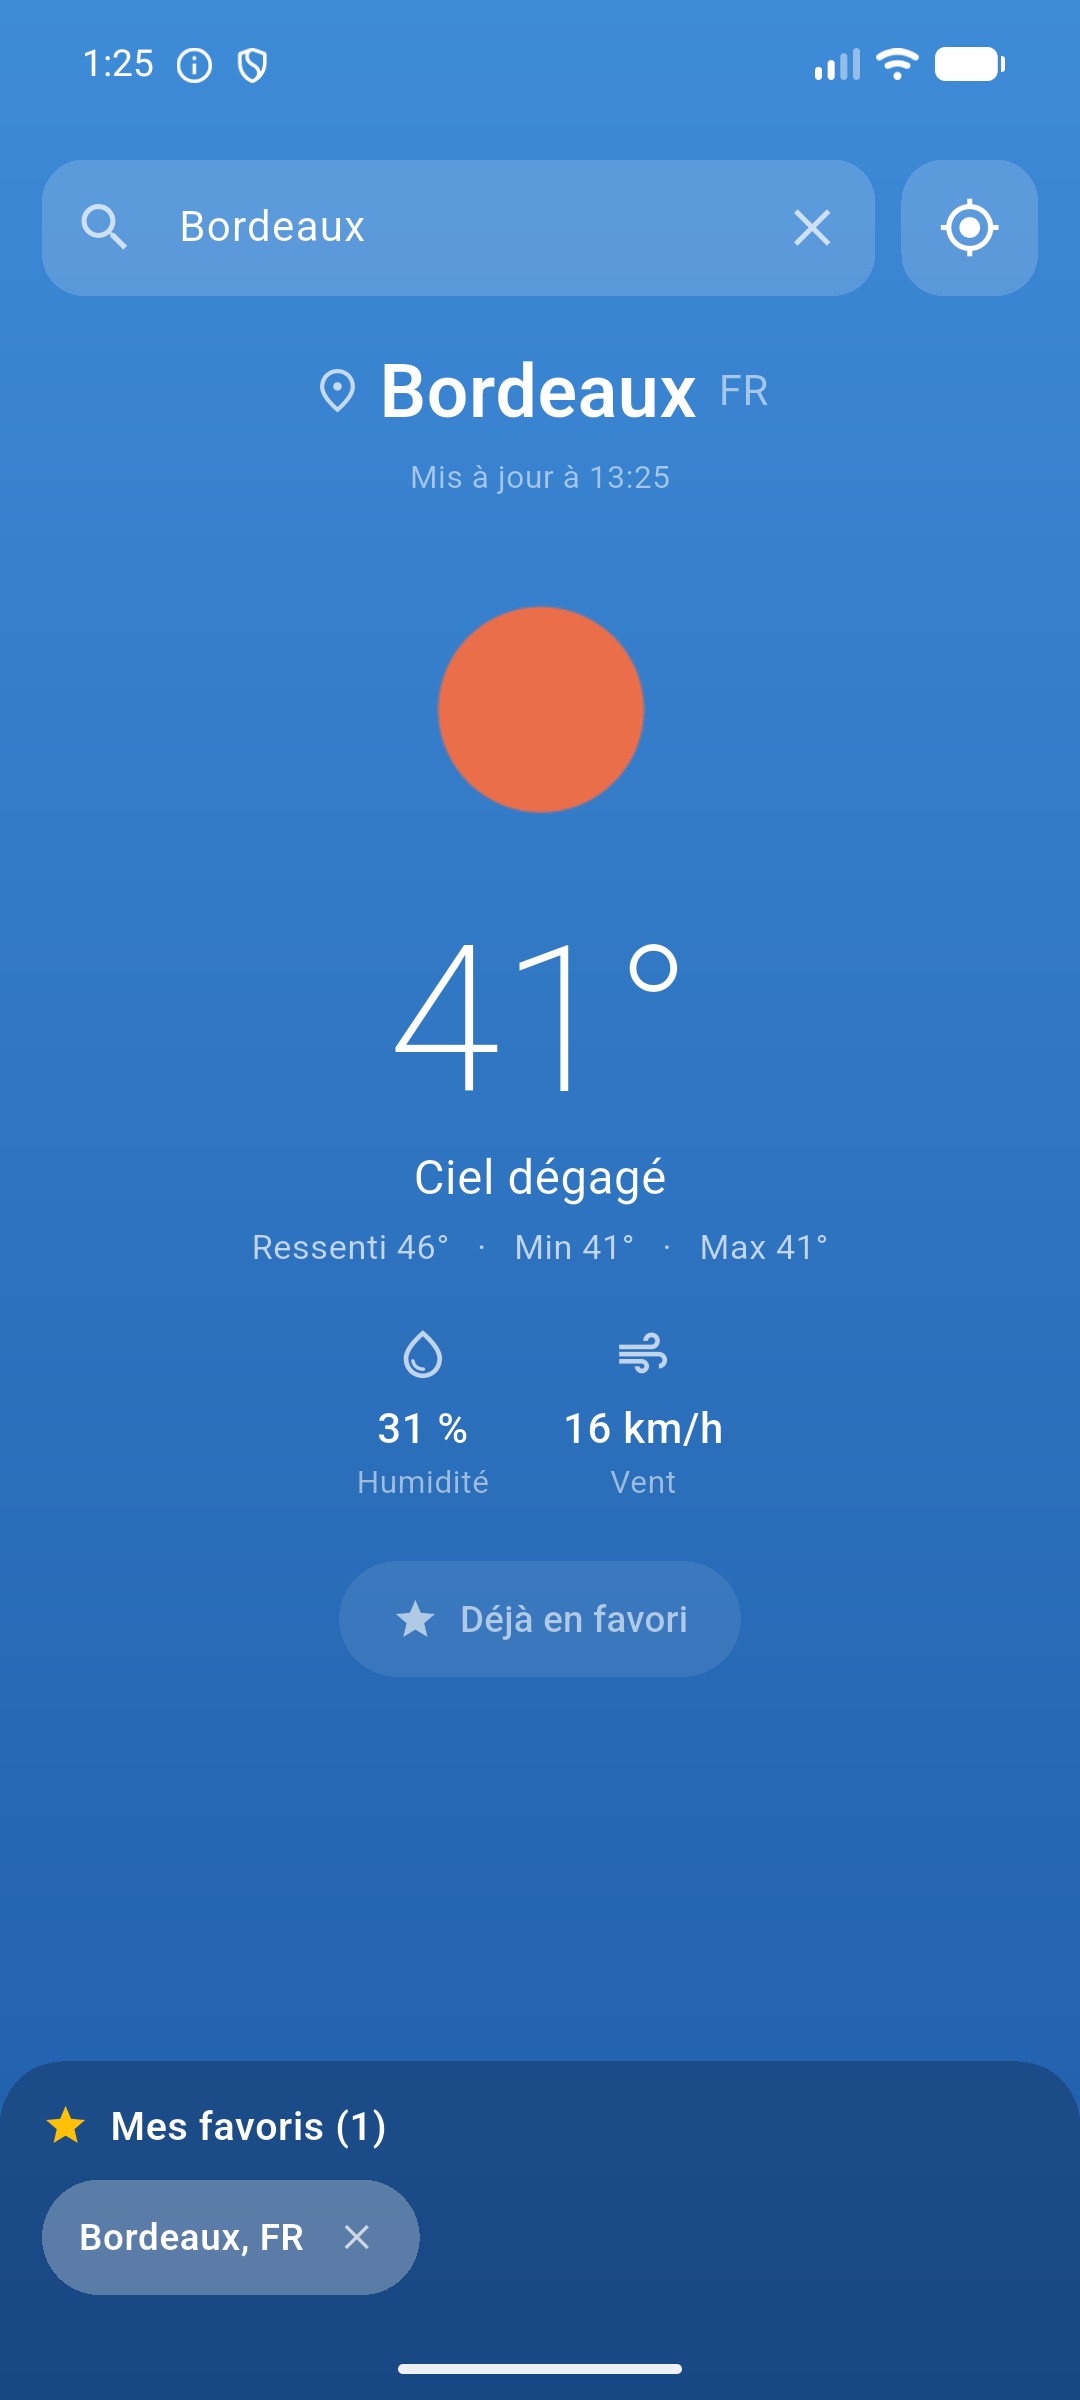
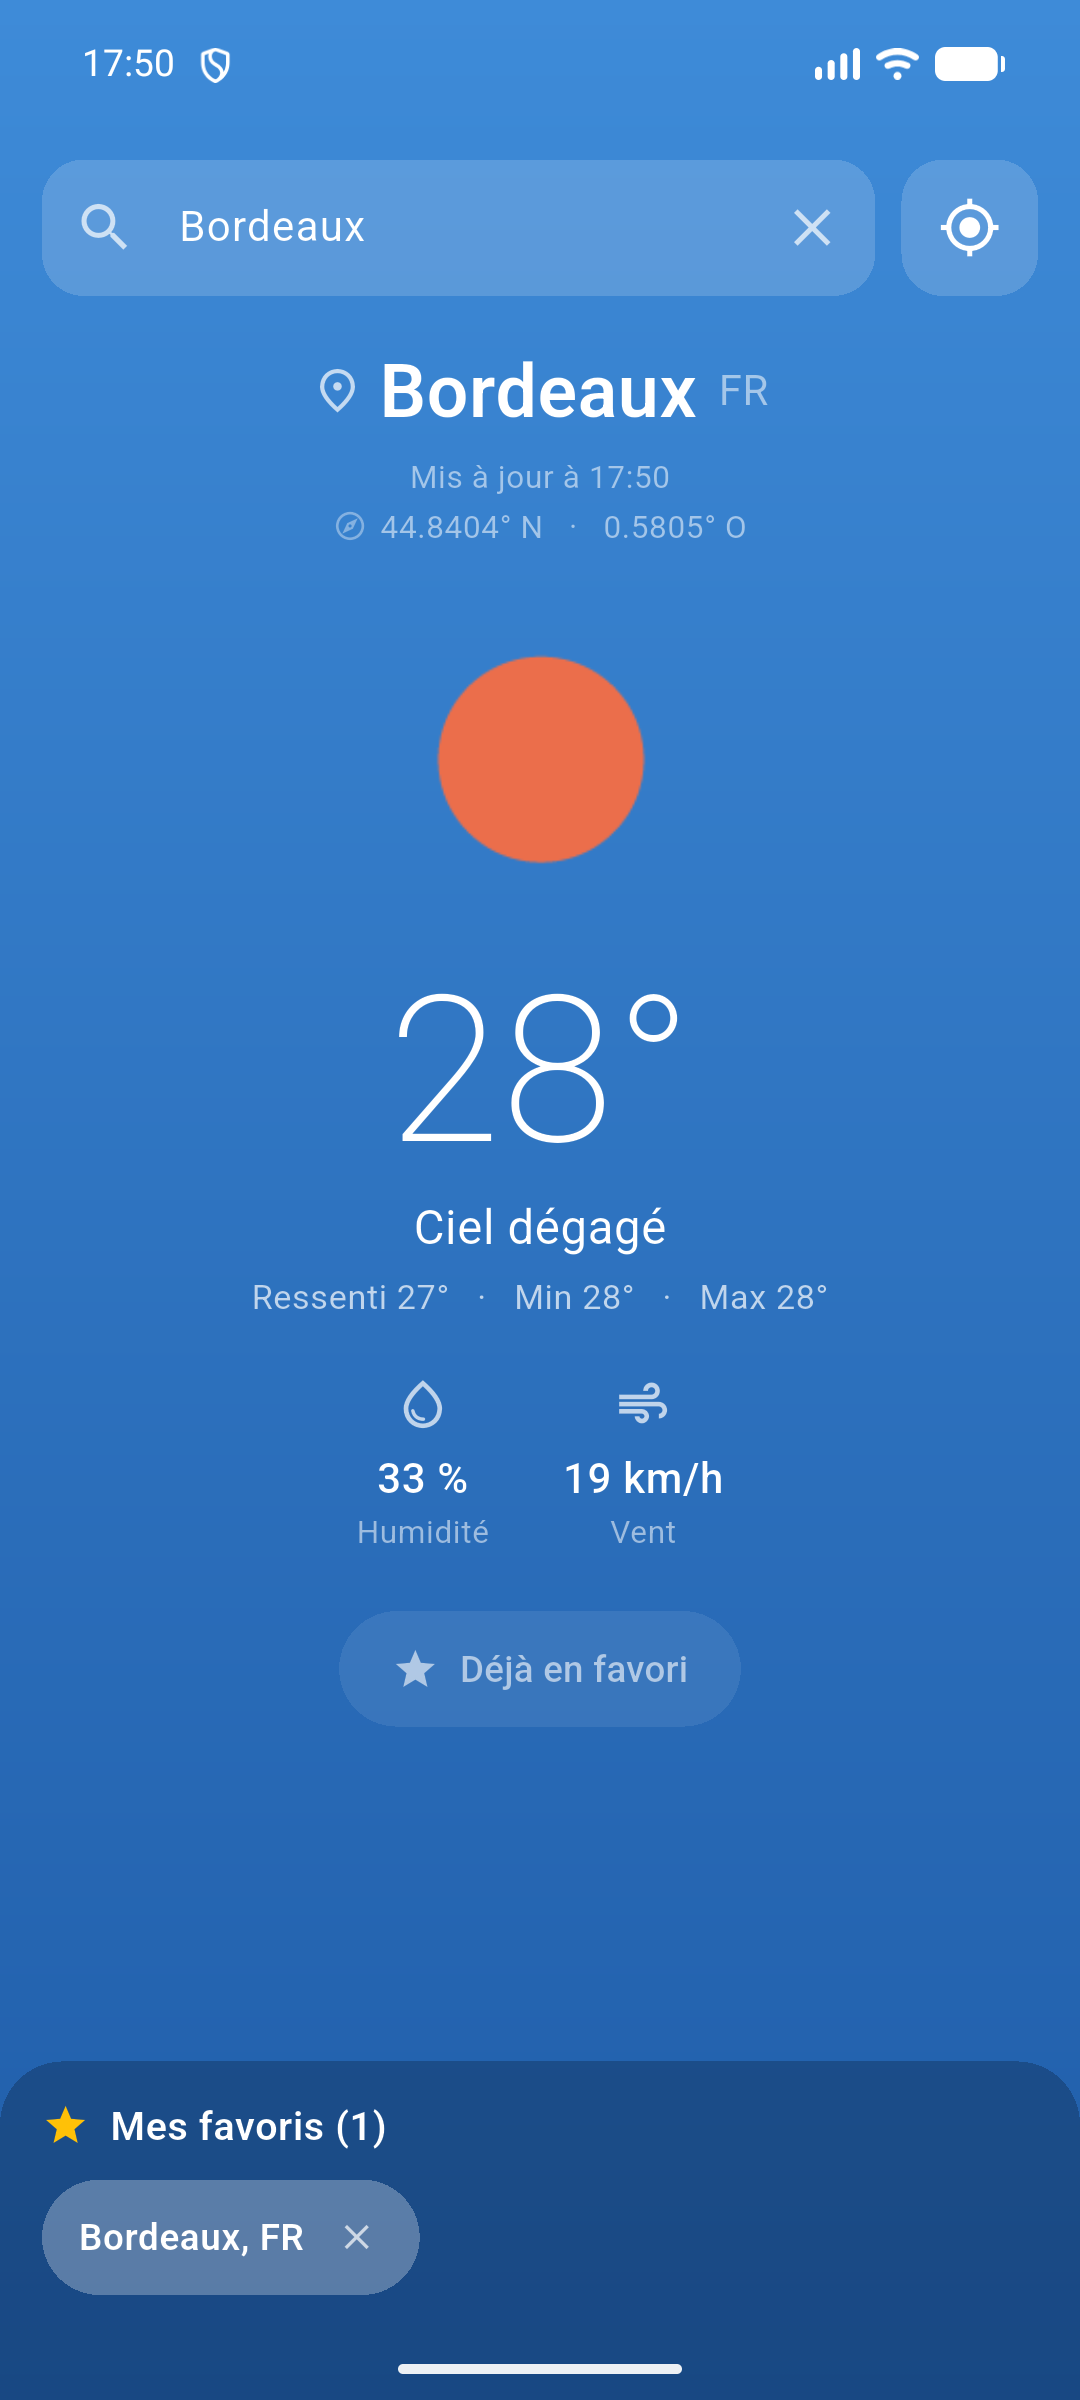
Captures refaites a l'heure de Paris (emulateur relance en cold boot avec -timezone)

diff --git a/README.md b/README.md
@@ -267,8 +267,8 @@ déclenché en conditions réelles, pas simulé.
 
 | | | |
 |---|---|---|
-| ![Accueil](captures/01-accueil.png) | ![Résultat](captures/02-resultat-recherche.png) | ![Géolocalisation](captures/09-geolocalisation.png) |
-| Écran d'accueil | Recherche « Bordeaux » : ville, 41 °C, icône de l'API, description | Bouton GPS : l'API renvoie le lieu le plus proche des coordonnées |
+| ![Accueil](captures/01-accueil.png) | ![Résultat](captures/02-resultat-recherche.png) | ![GPS indisponible](captures/09-geolocalisation.png) |
+| Écran d'accueil | Recherche « Bordeaux » : ville, température, icône de l'API, description et coordonnées | Bouton GPS sur émulateur : le bandeau apparaît **sans effacer** la météo affichée — l'app reste utilisable |
 
 ### Favoris
 
